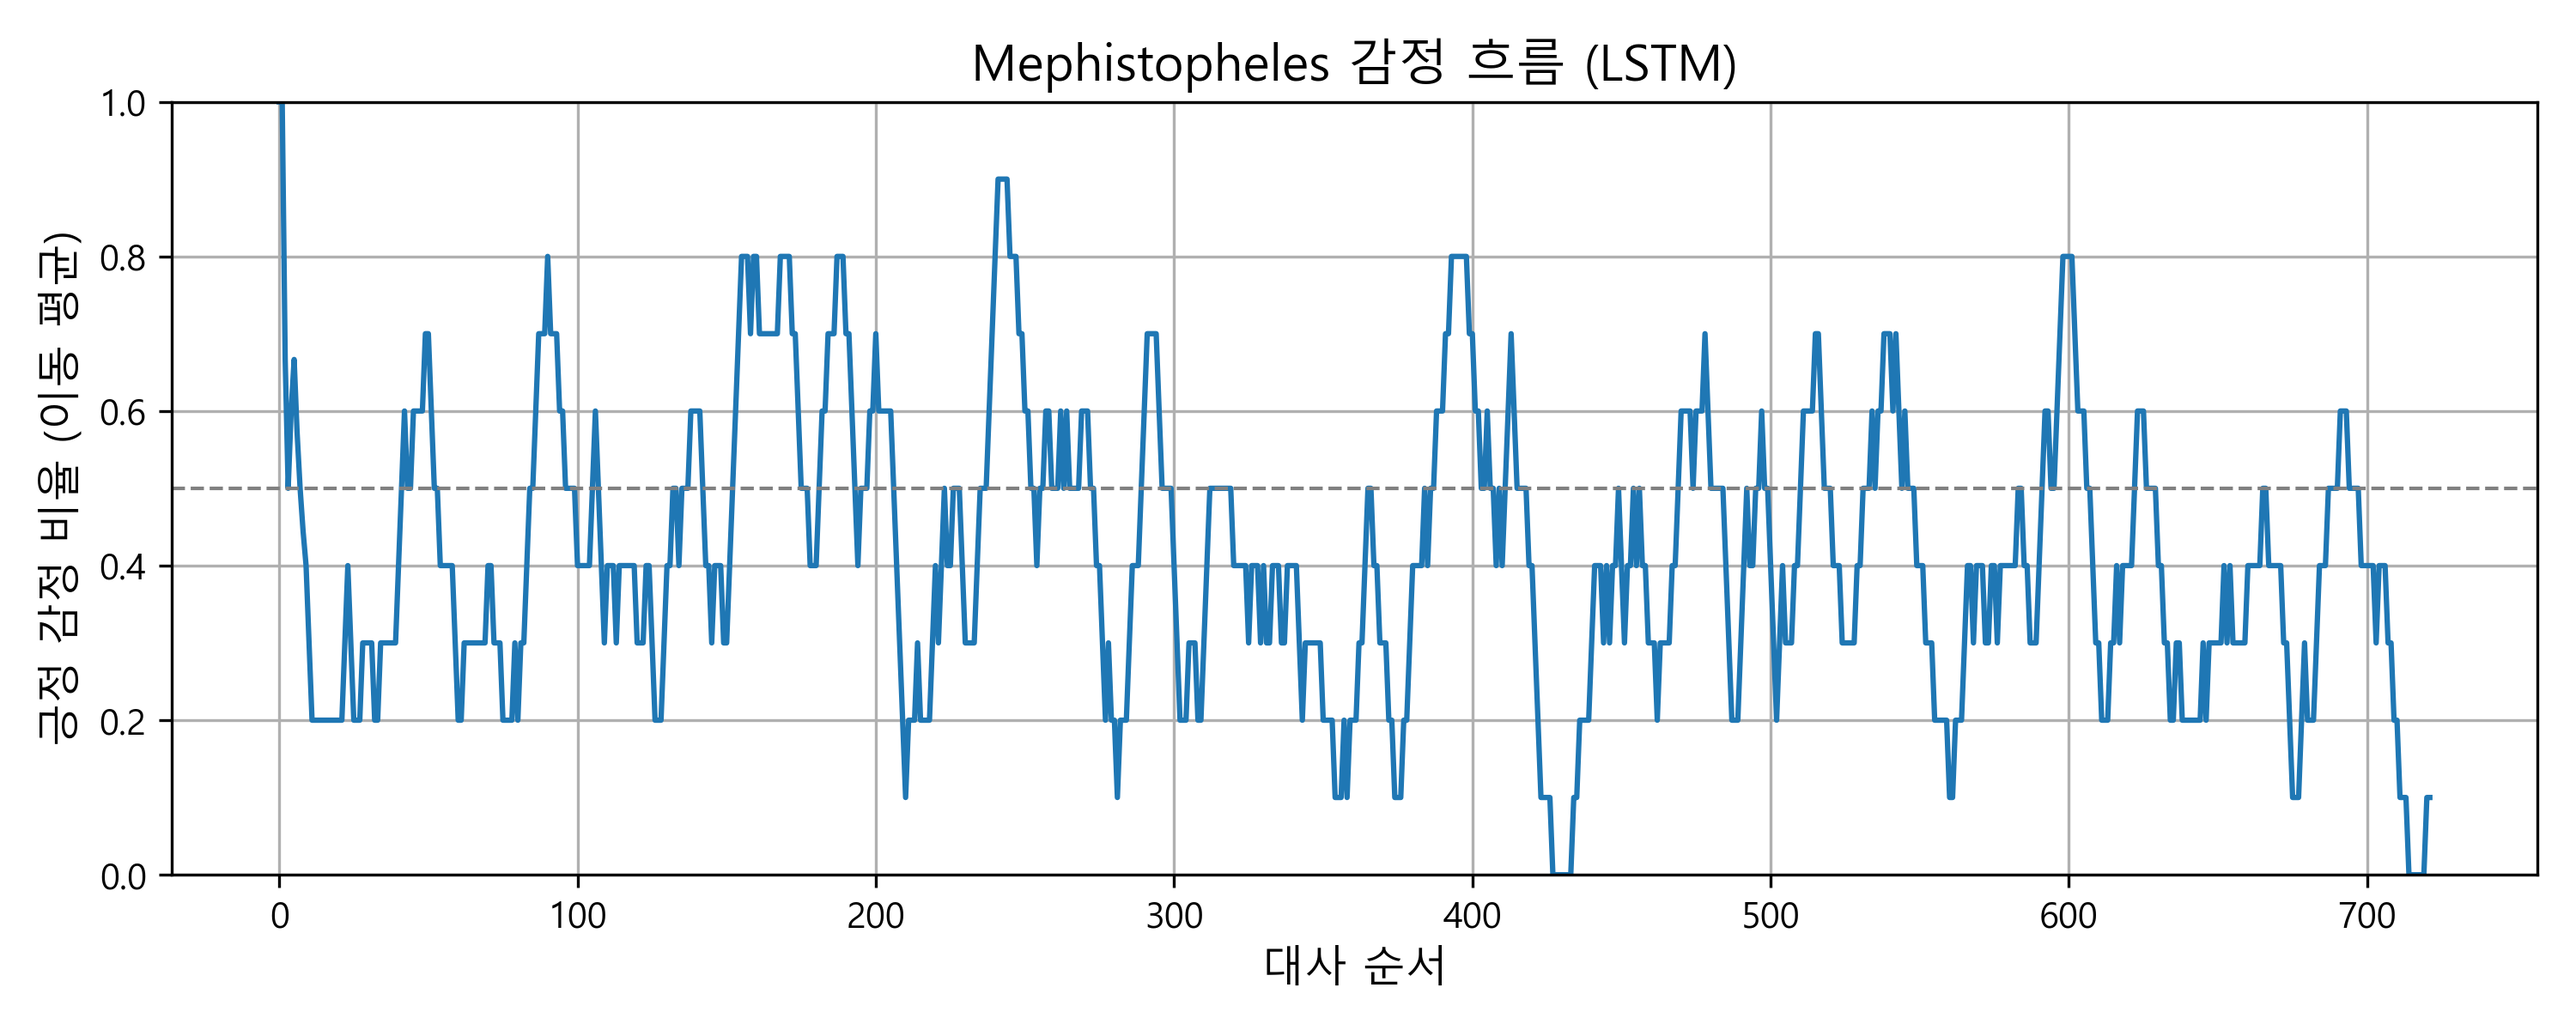
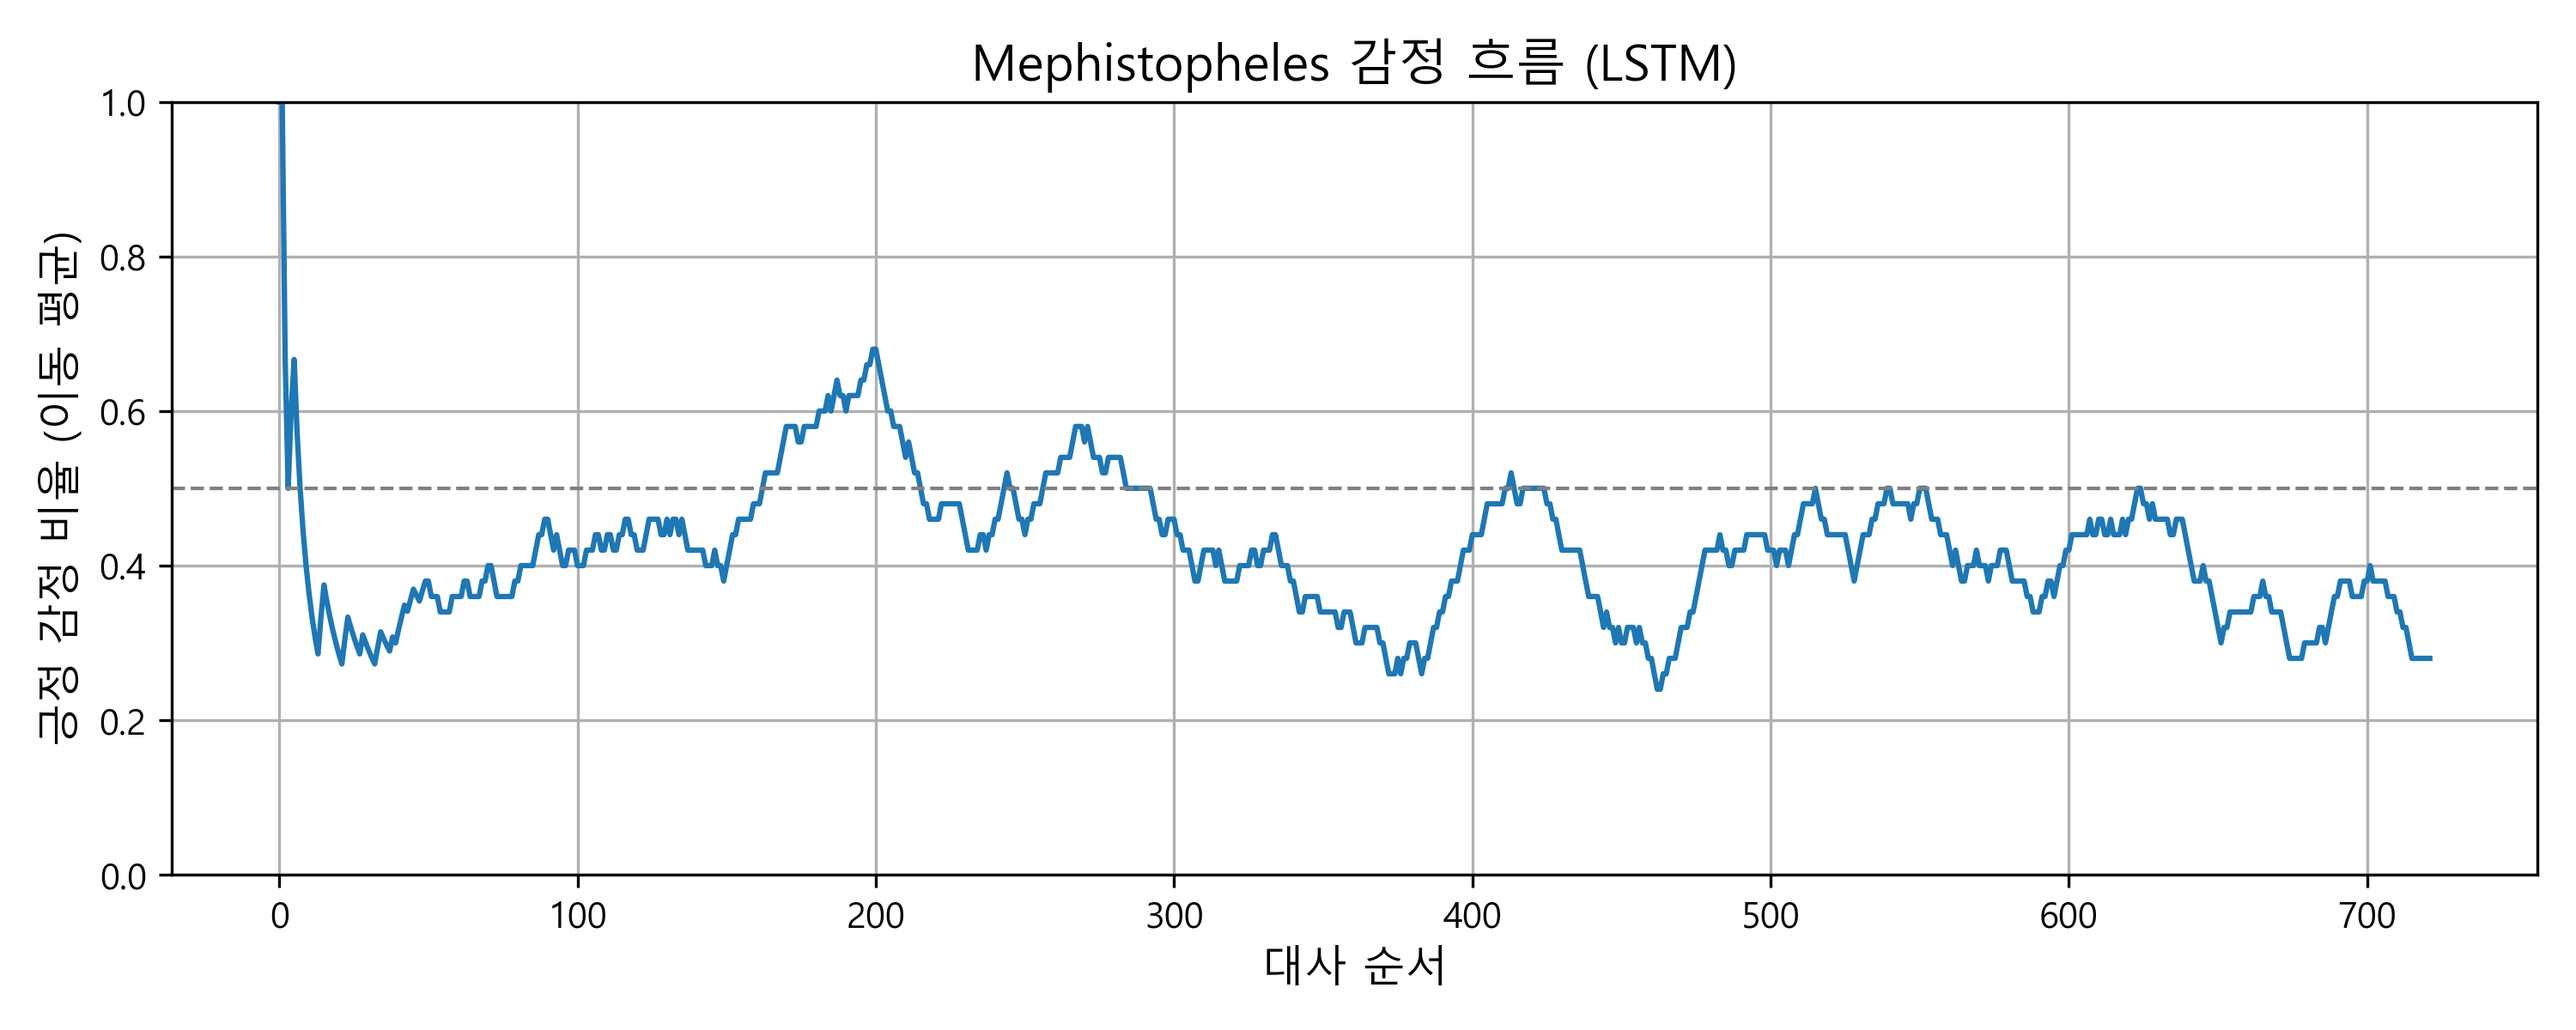
.

Changed region(s): [[0.093, 0.185, 0.961, 0.8325], [0.93, 0.7708, 0.961, 0.8325]]

diff --git a/main/sentiment_analysis/Transformer/temporal_flow_transformer.py b/main/sentiment_analysis/Transformer/temporal_flow_transformer.py
@@ -108,12 +108,12 @@ plot_positive_negative_trend(
     results_faust,
     "Faust 감정 흐름 (Transformer)",
     "faust_positive_trend(Transformer).png",
-    window_size=10
+    window_size=50
 )
 
 plot_positive_negative_trend(
     results_mephi,
     "Mephistopheles 감정 흐름 (Transformer)",
     "mephi_positive_trend(Transformer).png",
-    window_size=10
+    window_size=50
 )

diff --git a/main/sentiment_analysis/RNN/temporal_flow_rnn.py b/main/sentiment_analysis/RNN/temporal_flow_rnn.py
@@ -107,12 +107,12 @@ plot_positive_negative_trend(
     results_faust,
     "Faust 감정 흐름 (긍정 감정 비율)",
     "faust_positive_trend.png",
-    window_size=10
+    window_size=50
 )
 
 plot_positive_negative_trend(
     results_mephi,
     "Mephistopheles 감정 흐름 (긍정 감정 비율)",
     "mephi_positive_trend.png",
-    window_size=10
+    window_size=50
 )

diff --git a/main/sentiment_analysis/LSTM/temporal_flow_lstm.py b/main/sentiment_analysis/LSTM/temporal_flow_lstm.py
@@ -108,12 +108,12 @@ plot_positive_negative_trend(
     results_faust,
     "Faust 감정 흐름 (LSTM)",
     "faust_positive_trend(LSTM).png",
-    window_size=10
+    window_size=50
 )
 
 plot_positive_negative_trend(
     results_mephi,
     "Mephistopheles 감정 흐름 (LSTM)",
     "mephi_positive_trend(LSTM).png",
-    window_size=10
+    window_size=50
 )
